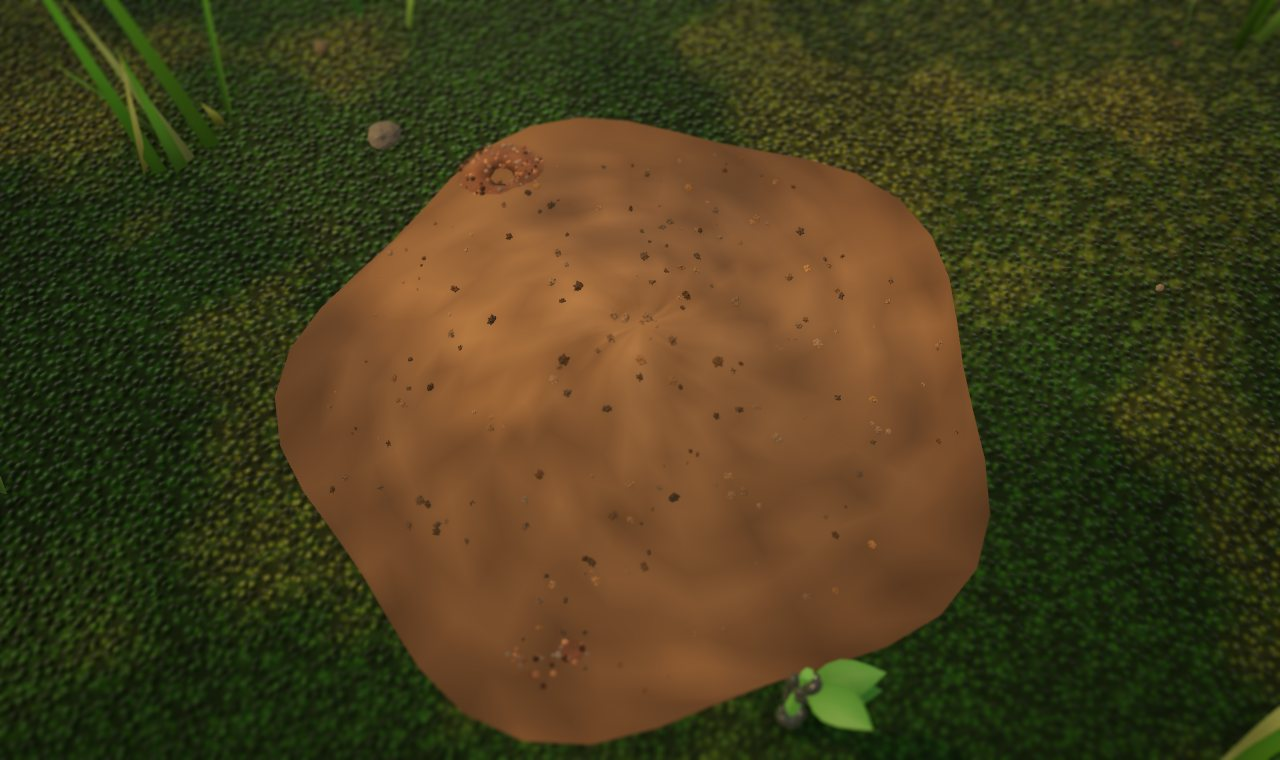
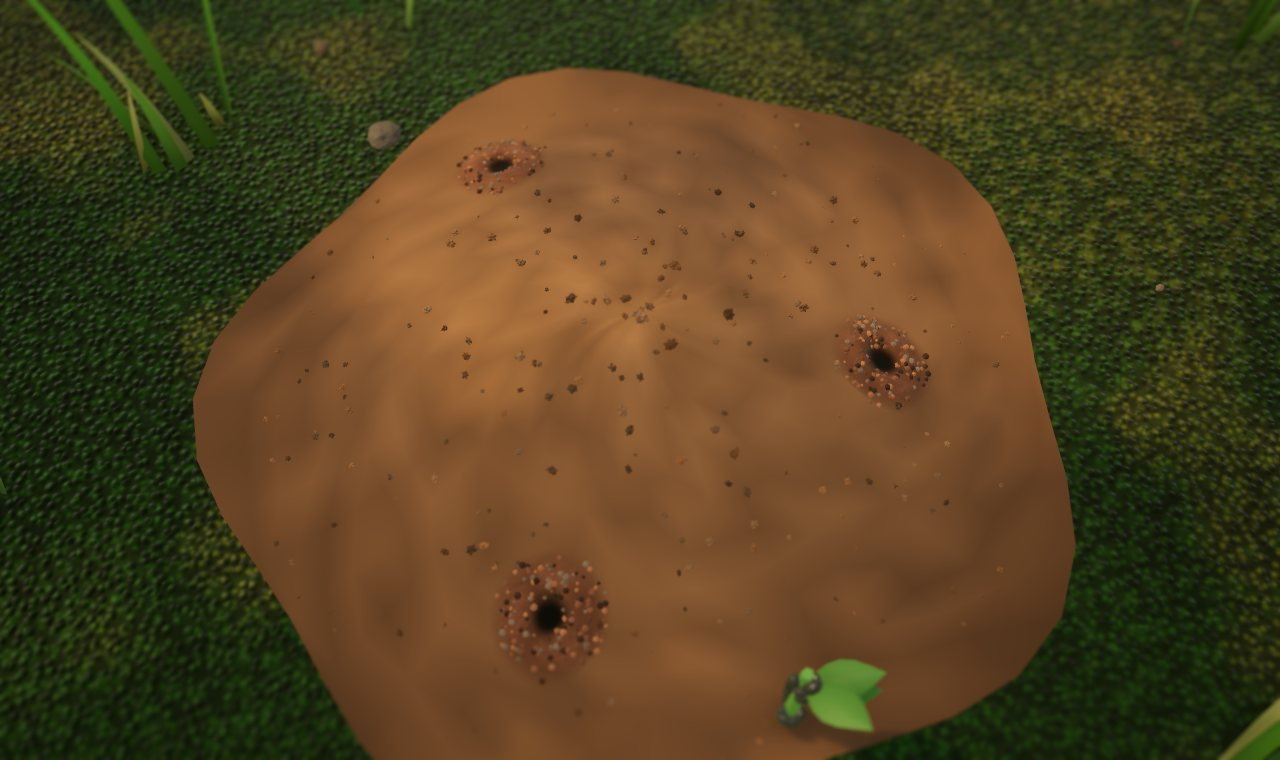
Fire-ant holes on the dome's flank, rebuilt with the dome; thinner litter; old entrance docs and screenshots removed
The fire-ant dome is built before the anthill's holes and they are rebuilt when it grows (they were drawn on bare
ground and the dome covered them); its lumps and clods keep off the holes; the holes sit about 0.75 of its radius
out. Hell ant and sickle-jaw litter thinned. Removed the 2026-10-26 entrance screenshots (extra entrances, plugs)
and the old model column of the entrance notes.

Claude-Session: https://claude.ai/code/session_01MHhvayxRSszQFax75UpbXx

diff --git a/src/render/game/mounds.ts b/src/render/game/mounds.ts
@@ -25,10 +25,18 @@ interface Mound {
   mesh: THREE.Mesh | null;
   /** radius the mesh was built for */
   builtR: number;
+  /** the anthill's holes (x, y pairs): no lumps or clods over them */
+  holes: number[];
 }
 
 const RINGS = 14;
 const SEG = 40;
+
+/** Is (x, y) within d mm of one of the dome's holes? */
+function nearHole(m: Mound, x: number, y: number, d: number): boolean {
+  for (let i = 0; i < m.holes.length; i += 2) if ((x - m.holes[i]) ** 2 + (y - m.holes[i + 1]) ** 2 < d * d) return true;
+  return false;
+}
 
 export class SurfaceMounds {
   readonly group = new THREE.Group();
@@ -90,8 +98,12 @@ export class SurfaceMounds {
   }
 
   update(w: World, ground: (x: number, y: number) => number): void {
+    // (the domes first: an anthill's holes sit on its dome, so they are rebuilt with it)
+    if (this.frame++ % 30 === 0) this.updateDomes(w, ground);
     this.entrances.update(w, (x, y) => ground(x, y) + this.domeHeight(x, y));
-    if (this.frame++ % 30 !== 0) return;
+  }
+
+  private updateDomes(w: World, ground: (x: number, y: number) => number): void {
     const seen = new Set<number>();
     for (const c of w.s.colonies) {
       if (c.species !== 'solenopsis' || !c.alive || !w.nest(c.id)) continue;
@@ -100,12 +112,14 @@ export class SurfaceMounds {
       // the dome over the nest, its three small holes at its edge (no opening in the middle: user spec 2026-11-01)
       const s = anthillCentre(c.entrances, { x: 0, y: 0 });
       const far = Math.max(...c.entrances.map((e) => Math.hypot(e.sx - s.x, e.sy - s.y)));
-      const r = Math.max(far * 1.08, 15 + Math.min(16, Math.sqrt(Math.max(0, c.living)) * 1.7));
+      // (the holes low on its flank, where they show: about 0.75 of its radius out)
+      const r = Math.max(far * 1.32, 15 + Math.min(16, Math.sqrt(Math.max(0, c.living)) * 1.7));
       let m = this.mounds.find((x) => x.colony === c.id);
       if (!m) {
-        m = { colony: c.id, x: s.x, y: s.y, r, h: r * 0.3, mesh: null, builtR: 0 };
+        m = { colony: c.id, x: s.x, y: s.y, r, h: r * 0.3, mesh: null, builtR: 0, holes: [] };
         this.mounds.push(m);
       }
+      m.holes = c.entrances.flatMap((e) => [e.sx, e.sy]);
       m.x = s.x;
       m.y = s.y;
       m.r = r;
@@ -114,6 +128,7 @@ export class SurfaceMounds {
       if (Math.abs(m.builtR - r) > 0.8) {
         this.build(m, ground);
         this.scatter(ground);
+        this.entrances.rebuild(c.id);
       }
     }
     for (let i = this.mounds.length - 1; i >= 0; i--) {
@@ -140,6 +155,7 @@ export class SurfaceMounds {
         const x = m.x + Math.cos(a) * d;
         const y = m.y + Math.sin(a) * d;
         const sz = rng.range(0.6, 1.6) * (1 - 0.4 * (d / m.r));
+        if (nearHole(m, x, y, 4.5)) continue;
         this.p.set(x, ground(x, y) + this.height(x, y) + sz * 0.15, y);
         this.e.set(rng.range(0, 6), rng.range(0, 6), rng.range(0, 6));
         this.q.setFromEuler(this.e);
@@ -172,7 +188,7 @@ export class SurfaceMounds {
         const y = m.y + Math.sin(a) * rr * wob;
         // granular surface: small bumps of worked soil, fading out at the rim; dry and paler on top
         const k = 1 - rr / (m.r * 1.04);
-        const bump = (rng.next() - 0.5) * 0.6 * Math.min(1, k * 4);
+        const bump = (rng.next() - 0.5) * 0.6 * Math.min(1, k * 4) * (nearHole(m, x, y, 5) ? 0 : 1);
         pos.push(x, ground(x, y) + this.height(x, y) + bump + 0.05, y);
         const blotch = 0.5 + 0.5 * Math.sin(x * 0.35 + Math.sin(y * 0.27) * 2) * Math.sin(y * 0.31 + Math.sin(x * 0.23) * 2);
         c.setHSL(0.075, 0.38, 0.22 + 0.07 * blotch + 0.08 * k + 0.02 * rng.next(), THREE.SRGBColorSpace);

diff --git a/src/render/game/entranceModels.ts b/src/render/game/entranceModels.ts
@@ -202,6 +202,13 @@ export class SurfaceEntrances {
     return !this.holes.length && !this.masses.length;
   }
 
+  /** Rebuild a colony's anthill on the next update (the ground under it changed: a fire-ant dome grew). */
+  rebuild(colony: number): void {
+    const b = this.built.get('c' + colony);
+    if (b) b.sig = '';
+    this.frame = 0;
+  }
+
   update(w: World, ground: (x: number, y: number) => number): void {
     if (this.frame++ % 30 !== 0) return;
     const seen = new Set<string>();
@@ -347,10 +354,10 @@ export class SurfaceEntrances {
       const m: Mass = { x: ctr.x, y: ctr.y, r: R, h: 0.45 * (1 - 0.6 * fallC), k: 1, seed: c.id * 31 + 6, ring: far / R };
       b.masses.push(m);
       craterGeos.push(massMesh(m, ground, (x, y, h, t) => soilColour(x, y, t, pal, m.seed, h / m.h), true));
-      details.push(...leafBits(ctr.x, ctr.y, R * 1.8, 30, rng, (x, y) => ground(x, y) + massHeight(m, x, y), [0x5a3e22, 0x7a5430, 0x4a321c, 0x6a4a2a, 0x8a6236], [2, 4.2], far * 0.2));
+      details.push(...leafBits(ctr.x, ctr.y, R * 1.8, 14, rng, (x, y) => ground(x, y) + massHeight(m, x, y), [0x5a3e22, 0x7a5430, 0x4a321c, 0x6a4a2a, 0x8a6236], [2, 4.2], far * 0.2));
     } else if (look === 'sickle') {
       // three small openings with soil collars in the leaf litter
-      details.push(...leafBits(ctr.x, ctr.y, far * 1.9, 26, rng, ground, [0x7a5a30, 0x5e4426, 0x9a7038], [1.4, 2.8], 0));
+      details.push(...leafBits(ctr.x, ctr.y, far * 1.9, 12, rng, ground, [0x7a5a30, 0x5e4426, 0x9a7038], [1.4, 2.8], 0));
     }
     const under = (x: number, y: number) => {
       let h = ground(x, y);

diff --git a/docs/creatures/entrances.md b/docs/creatures/entrances.md
@@ -25,22 +25,21 @@ and rearranged so the three holes read as one nest:
 | Nasute termite | The lobed carton nest over the middle, its three openings at its base, gallery tubes running off between them. |
 | Sickle-jaw termite | Three small soil collars in the leaf litter (no extra foraging holes: three holes, one nest). |
 
-The table below is the original study (2026-10-26), when each colony had a main entrance and up to two extra
-ones.
+What the real nests look like (the study behind the looks above; 2026-10-26):
 
-| Species (game) | What the real entrance looks like | Model |
-|---|---|---|
-| Black garden ant, *Lasius niger* | Small round holes, often several, each ringed by a low crater ("volcano") of fine, crumbly soil pellets that workers carry up and drop at the rim; nests are also common under a flat stone or paving slab, with the hole at its edge. | Hole r 1.6 mm; pellet crater (rim 2.1 × hole, 1.5 mm high, apron 5.5 ×); 110 pellets; the first extra entrance has a flat stone over one side. |
-| Red wood ant, *Formica rufa* | A large dome thatched with pine needles, twigs and plant bits over a soil core; the entrance holes open in its sides and near the base; a worn, bare ring of ground at the foot, with trails radiating out to trees. | One thatched dome per nest over the site centre (radius ≥ 1.3 × the farthest hole, 16–30 mm, 0.42 × as high), 250–600 needles and twigs lying on it, holes with a small lip in its flanks; five darker trails from the foot. |
-| Leafcutter ant, *Atta cephalotes* | Wide crater mounds of bare, loose excavated soil (often reddish or yellowish subsoil) with big entrance holes; cleared trails lead in with leaf fragments being carried; a separate pale refuse dump of spent fungus and dead ants outside. | Hole r 3.2 mm; wide crater of loose orange-brown soil (3.2 mm rim, apron 6.5 ×), 160 clods; green leaf fragments along the trail direction; a pale crumbly refuse dump 30 mm from the main hole (where corpses are dropped). |
-| Tropical fire ant, *Solenopsis geminata* | Low irregular mounds or craters of worked granular soil in open sunny ground, up to ~60 cm across and 30 cm high in the wild, with no obvious central opening: workers come and go through many small holes and foraging tunnels at the edges (up to ~20 per nest). | The existing granular dome over the nest (`mounds.ts`) stays; each entrance is a small hole (r 1.2 mm) with a low granular collar away from the dome. |
-| Army ant, *Eciton burchellii* | No dug nest: the bivouac, a living mass of hundreds of thousands of workers linked by their legs and bodies round the queen and brood (about a metre across), hung under a log or between buttress roots; it dissolves into raid columns each morning. The mass itself is the entrance. | A heap of 260–760 linked worker bodies (with leg links) over the main hole; ants walk onto it and vanish inside. |
-| Gene Thief Ant (*Formica plagiaria*, fictional; modelled on *F. sanguinea*) | *F. sanguinea* nests in soil under stones, stumps and at the base of plants, with small earth mounds mixed with plant debris. | A low pellet crater with a few plant slivers. |
-| Hell ant (Haidomyrmecinae, extinct; **reconstruction**) | Nothing survives of their nests (all known from Cretaceous amber). The model assumes a small ground-nesting hunter in leaf litter. | A neat round hole (r 1.4 mm) with a minimal soil rim among a few fallen leaf pieces. Stated as a reconstruction in game. |
-| Gilded / Saiy-Ants (*Aurimyrmex*, fictional, carpenter-ant-like) | Carpenter ants (*Camponotus*) excavate galleries in decaying wood (stumps, roots, logs) and push out coarse pale frass: wood shavings mixed with insect parts, piling below the openings. | A rotting stump (bark sides, flared roots, pale crumbling top) beside the main hole; pale sawdust frass spilling out round every hole. |
-| Gene-Thief Termants (*Chimaeromyrmex*, fictional hybrid) | Hybrid of an ant's soil crater and a termite's carton. | A soil crater whose crest is plastered with dark, papery carton flakes. |
-| Nasute termites, *Nasutitermes corniger* | Dark brown carton nests (chewed wood and faeces bound with saliva) with a lumpy surface and lobes, small ones near spherical; covered foraging galleries (shelter tubes about one soldier length wide) run from the nest along the ground and up trunks. | A lobed dark carton mound round the main hole (carton material), three lumpy covered gallery tubes running off along the ground. |
-| Sickle-jaw termites, *Rhynchotermes perarmatus* | Nest underground or shallow and epigeic in forest leaf litter; most species forage on the surface in the open, mainly on litter. Openings are inconspicuous. | A tiny soil turret (r 1.1 mm hole, 1.1 mm collar) in leaf litter, with four smaller foraging holes and their collars scattered nearby. |
+| Species (game) | What the real entrance looks like |
+|---|---|
+| Black garden ant, *Lasius niger* | Small round holes, often several, each ringed by a low crater ("volcano") of fine, crumbly soil pellets that workers carry up and drop at the rim; nests are also common under a flat stone or paving slab, with the hole at its edge. |
+| Red wood ant, *Formica rufa* | A large dome thatched with pine needles, twigs and plant bits over a soil core; the entrance holes open in its sides and near the base; a worn, bare ring of ground at the foot, with trails radiating out to trees. |
+| Leafcutter ant, *Atta cephalotes* | Wide crater mounds of bare, loose excavated soil (often reddish or yellowish subsoil) with big entrance holes; cleared trails lead in with leaf fragments being carried; a separate pale refuse dump of spent fungus and dead ants outside. |
+| Tropical fire ant, *Solenopsis geminata* | Low irregular mounds or craters of worked granular soil in open sunny ground, up to ~60 cm across and 30 cm high in the wild, with no obvious central opening: workers come and go through many small holes and foraging tunnels at the edges (up to ~20 per nest). |
+| Army ant, *Eciton burchellii* | No dug nest: the bivouac, a living mass of hundreds of thousands of workers linked by their legs and bodies round the queen and brood (about a metre across), hung under a log or between buttress roots; it dissolves into raid columns each morning. The mass itself is the entrance. |
+| Gene Thief Ant (*Formica plagiaria*, fictional; modelled on *F. sanguinea*) | *F. sanguinea* nests in soil under stones, stumps and at the base of plants, with small earth mounds mixed with plant debris. |
+| Hell ant (Haidomyrmecinae, extinct; **reconstruction**) | Nothing survives of their nests (all known from Cretaceous amber). The model assumes a small ground-nesting hunter in leaf litter. |
+| Gilded / Saiy-Ants (*Aurimyrmex*, fictional, carpenter-ant-like) | Carpenter ants (*Camponotus*) excavate galleries in decaying wood (stumps, roots, logs) and push out coarse pale frass: wood shavings mixed with insect parts, piling below the openings. |
+| Gene-Thief Termants (*Chimaeromyrmex*, fictional hybrid) | Hybrid of an ant's soil crater and a termite's carton. |
+| Nasute termites, *Nasutitermes corniger* | Dark brown carton nests (chewed wood and faeces bound with saliva) with a lumpy surface and lobes, small ones near spherical; covered foraging galleries (shelter tubes about one soldier length wide) run from the nest along the ground and up trunks. |
+| Sickle-jaw termites, *Rhynchotermes perarmatus* | Nest underground or shallow and epigeic in forest leaf litter; most species forage on the surface in the open, mainly on litter. Openings are inconspicuous. |
 
 ## Underground (all species)
 Since 2026-11-01 the nest's one entrance is a wide 7-hex "flower" at the nest's edge: its floor slopes up
@@ -49,7 +48,7 @@ along the middle, the species' bits (soil pellets; needles for wood ants, leaf s
 flakes for nasutes and Termants, frass for Gilded Ants, worked soil for fire ants) round its rim where the
 walls flare out, and one broad soft shaft of daylight (cool white by day, faint blue moonlight at night)
 falling across it. A fallen colony's entrance is capped with fresh dark soil over all seven hexes and has no
-light. (Before: a tunnel of three hexes per entrance.) Creature caves keep their three-hex tunnel.
+light. Creature caves keep their three-hex tunnel.
 
 ## Sources
 - *Solenopsis geminata*: [Wikipedia](https://en.wikipedia.org/wiki/Solenopsis_geminata) (mounds or craters up to 2 ft across and 12 in tall, up to ~20 entrance holes, open sunny soil).

diff --git a/DESIGN.md b/DESIGN.md
@@ -144,7 +144,7 @@ rally, defend, attack, grapple, climb, flee, enterNest, exitNest, dead`
 **Nest jobs (Revision 2, `sim/jobs.ts`).**
 - All nest work is done physically by **workers**; soldiers never take nest jobs.
 - Each colony keeps a **job board**. Job types, in strict priority order:
-  1. **Dig**: a marked soil hex. Up to 2 workers per hex. (The entrance dig of extra entrances is gone with them, 2026-11-01.)
+  1. **Dig**: a marked soil hex. Up to 2 workers per hex.
   2. **Build**: a planned tile. Upgrade and delete jobs are build jobs too. One worker each.
   3. **Spawn**: pull an egg from the tip of the queen's abdomen and carry it to a brood tile. One worker each.
 - **Points.** Every dig, build, upgrade or delete job needs **6 completion points**. A worker adds **2 / 4 / 6 points per second** at tile level 1 / 2 / 3 (nanitics count as level 1). A thin progress ring shows over a hex while it is being worked.
